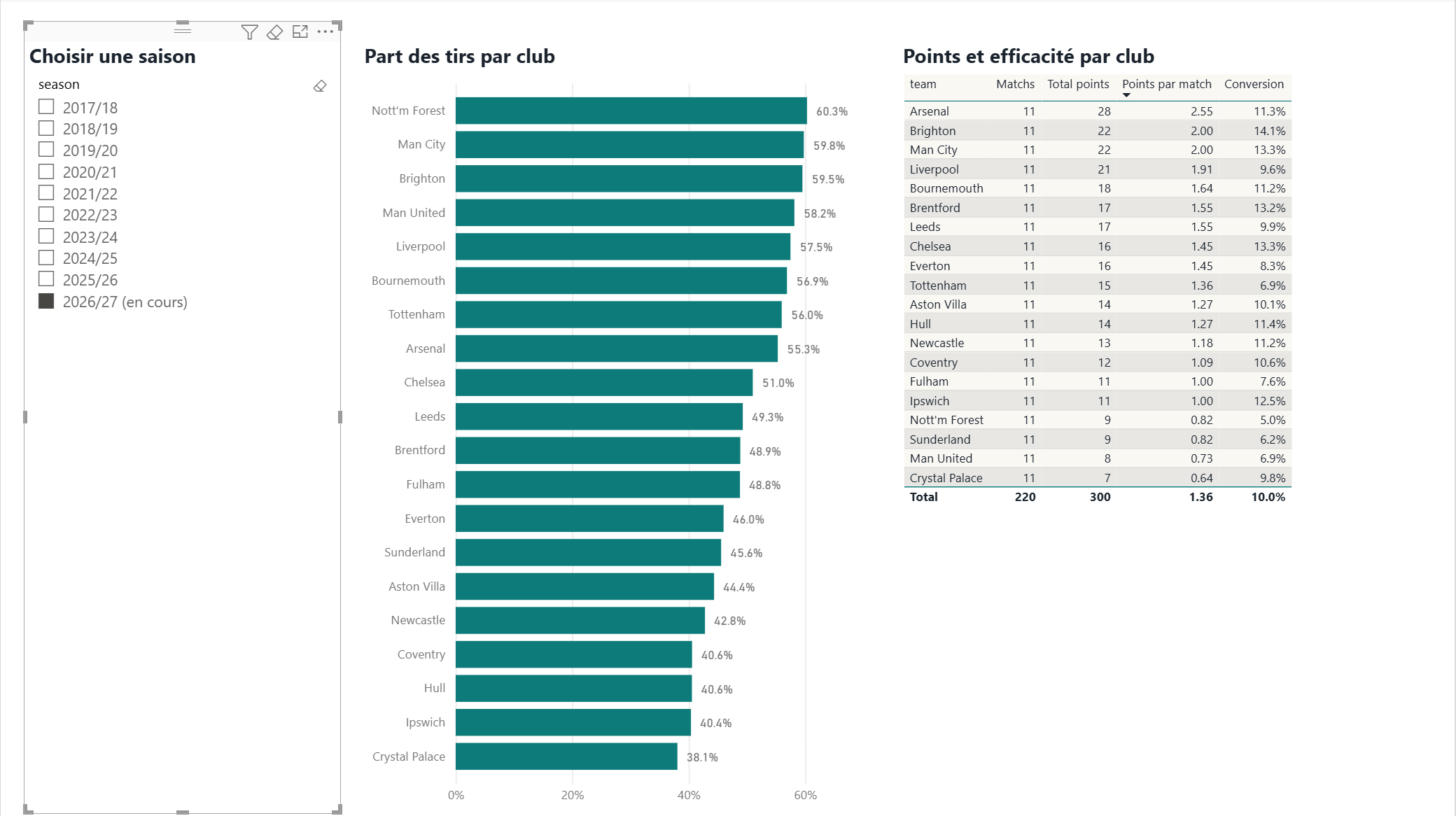
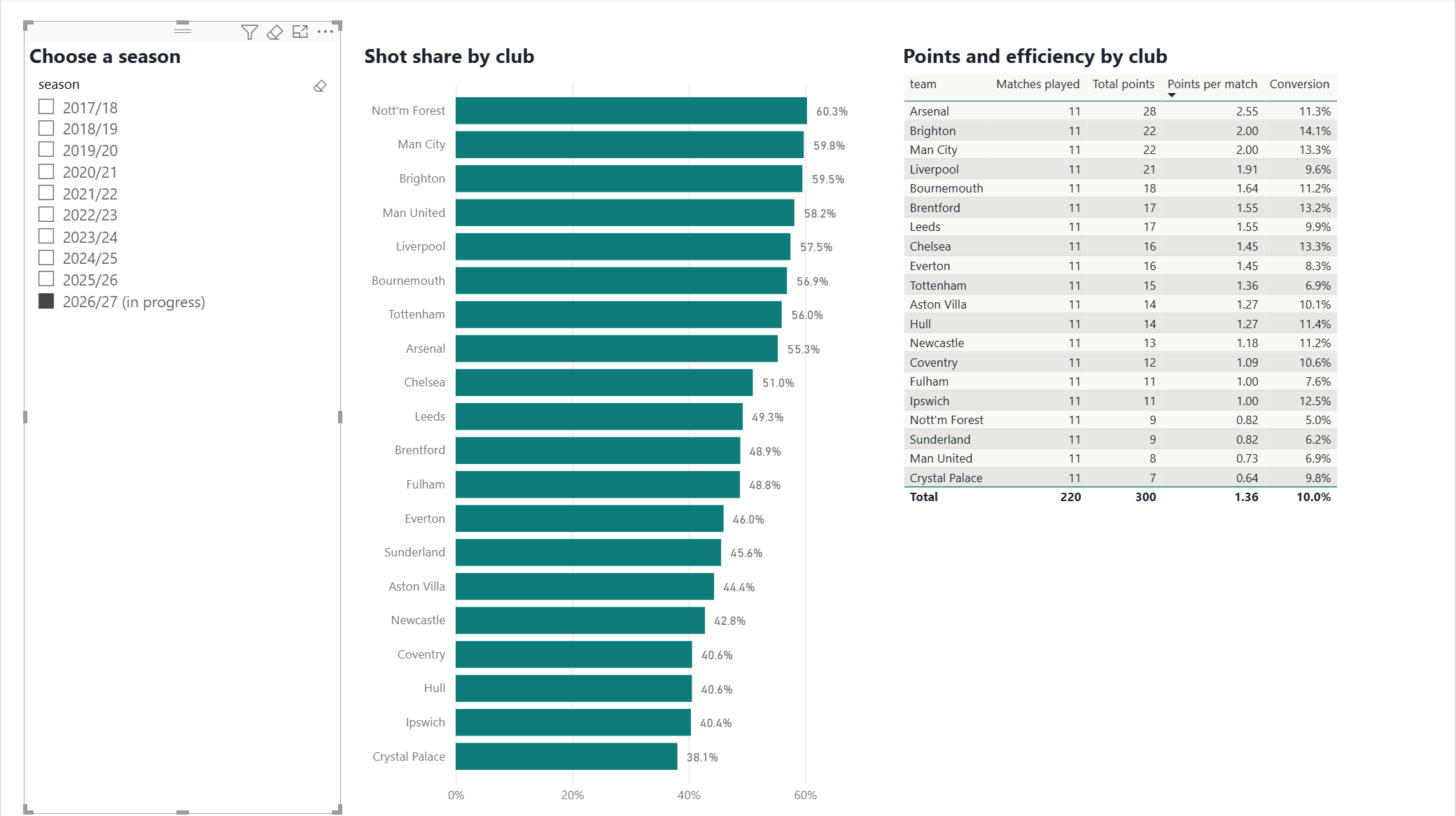
English report, labels and README

diff --git a/powerbi/build_pbip.py b/powerbi/build_pbip.py
@@ -42,39 +42,39 @@ def millions(table: str, column: str) -> str:
 
 MEASURES = {
     "matches": [
-        ("Matchs", "COUNTROWS(matches)", "#,0"),
+        ("Matches played", "COUNTROWS(matches)", "#,0"),
         ("Total points", "SUM(matches[points])", "#,0"),
-        ("Points par match", "DIVIDE([Total points], [Matchs])", "0.00"),
-        ("Part des tirs",
+        ("Points per match", "DIVIDE([Total points], [Matches played])", "0.00"),
+        ("Shot share",
          "DIVIDE(SUM(matches[shots_for]), SUM(matches[shots_for]) + SUM(matches[shots_against]))", "0.0%"),
         ("Conversion",
          "DIVIDE(CALCULATE(SUM(matches[goals_for]), NOT ISBLANK(matches[shots_for])), SUM(matches[shots_for]))",
          "0.0%"),
-        ("Tirs par match", "AVERAGE(matches[shots_for])", "0.0"),
-        ("Tirs concédés par match", "AVERAGE(matches[shots_against])", "0.0"),
-        ("Brighton points par match", brighton("Points par match"), "0.00"),
-        ("Championnat points par match", league("Points par match"), "0.00"),
-        ("Brighton part des tirs", brighton("Part des tirs"), "0.0%"),
-        ("Équilibre", "0.5", "0%"),
+        ("Shots per match", "AVERAGE(matches[shots_for])", "0.0"),
+        ("Shots conceded per match", "AVERAGE(matches[shots_against])", "0.0"),
+        ("Brighton points per match", brighton("Points per match"), "0.00"),
+        ("League points per match", league("Points per match"), "0.00"),
+        ("Brighton shot share", brighton("Shot share"), "0.0%"),
+        ("Even share", "0.5", "0%"),
         ("Brighton conversion", brighton("Conversion"), "0.0%"),
-        ("Championnat conversion", league("Conversion"), "0.0%"),
-        ("Brighton tirs", brighton("Tirs par match"), "0.0"),
-        ("Brighton tirs concédés", brighton("Tirs concédés par match"), "0.0"),
-        ("Dernière saison points par match", latest("Brighton points par match"), "0.00"),
-        ("Dernière saison part des tirs", latest("Brighton part des tirs"), "0.0%"),
-        ("Dernière saison conversion", latest("Brighton conversion"), "0.0%"),
-        ("Dernière saison matchs", latest("Matchs", ', matches[team] = "Brighton"'), "#,0"),
+        ("League conversion", league("Conversion"), "0.0%"),
+        ("Brighton shots", brighton("Shots per match"), "0.0"),
+        ("Brighton shots conceded", brighton("Shots conceded per match"), "0.0"),
+        ("Latest season points per match", latest("Brighton points per match"), "0.00"),
+        ("Latest season shot share", latest("Brighton shot share"), "0.0%"),
+        ("Latest season conversion", latest("Brighton conversion"), "0.0%"),
+        ("Latest season matches", latest("Matches played", ', matches[team] = "Brighton"'), "#,0"),
     ],
     "transfers": [
-        ("Achats (M€)", millions("transfers", "spent_eur"), "#,0.0"),
-        ("Ventes (M€)", millions("transfers", "received_eur"), "#,0.0"),
-        ("Solde (M€)", "[Ventes (M€)] - [Achats (M€)]", "#,0.0"),
+        ("Spent (€M)", millions("transfers", "spent_eur"), "#,0.0"),
+        ("Received (€M)", millions("transfers", "received_eur"), "#,0.0"),
+        ("Balance (€M)", "[Received (€M)] - [Spent (€M)]", "#,0.0"),
     ],
     "trades": [
-        ("Achat (M€)", millions("trades", "buy_fee_eur"), "#,0.0"),
-        ("Vente (M€)", millions("trades", "sell_fee_eur"), "#,0.0"),
-        ("Plus-value (M€)", millions("trades", "gain_eur"), "#,0.0"),
-        ("Opérations", "COUNTROWS(trades)", "#,0"),
+        ("Bought for (€M)", millions("trades", "buy_fee_eur"), "#,0.0"),
+        ("Sold for (€M)", millions("trades", "sell_fee_eur"), "#,0.0"),
+        ("Gain (€M)", millions("trades", "gain_eur"), "#,0.0"),
+        ("Number of trades", "COUNTROWS(trades)", "#,0"),
     ],
 }
 
@@ -204,9 +204,9 @@ def card(name: str, position: tuple, measure: str, title: str, table: str = "mat
 def trend(name: str, kind: str, position: tuple, measures: list, title: str) -> dict:
     """Axes start at zero so differences are not exaggerated; the 50 % reference line has no data labels."""
     labels = [{"properties": {"show": literal("true"), "labelDisplayUnits": literal("1D")}}]
-    if "Équilibre" in measures:
+    if "Even share" in measures:
         labels.append({"properties": {"showSeries": literal("false")},
-                       "selector": {"metadata": "matches.Équilibre"}})
+                       "selector": {"metadata": "matches.Even share"}})
     return visual(name, kind, position, {"Category": [col("season")], "Y": [mea(m) for m in measures]}, title,
                   order=col("season"), ascending=True,
                   objects={"valueAxis": [{"properties": {"start": literal("0D")}}], "labels": labels})
@@ -218,44 +218,44 @@ def page(name: str, display: str, ordinal: int, visuals: list) -> dict:
 
 
 def pages() -> list:
-    progression = page("progression", "La progression", 0, [
-        card("c_ppm", (20, 20, 300, 120), "Dernière saison points par match", "Points par match, 2026/27"),
-        card("c_share", (335, 20, 300, 120), "Dernière saison part des tirs", "Part des tirs, 2026/27"),
-        card("c_conv", (650, 20, 300, 120), "Dernière saison conversion", "Tirs convertis en buts, 2026/27"),
-        card("c_n", (965, 20, 295, 120), "Dernière saison matchs", "Matchs joués, saison en cours"),
+    progression = page("progression", "Progress", 0, [
+        card("c_ppm", (20, 20, 300, 120), "Latest season points per match", "Points per match, 2026/27"),
+        card("c_share", (335, 20, 300, 120), "Latest season shot share", "Shot share, 2026/27"),
+        card("c_conv", (650, 20, 300, 120), "Latest season conversion", "Shot conversion, 2026/27"),
+        card("c_n", (965, 20, 295, 120), "Latest season matches", "Matches played, current season"),
         trend("l_ppm", "lineChart", (20, 155, 620, 545),
-              ["Brighton points par match", "Championnat points par match"], "Points par match : Brighton et la moyenne"),
+              ["Brighton points per match", "League points per match"], "Points per match: Brighton and the average"),
         trend("l_share", "lineChart", (655, 155, 605, 545),
-              ["Brighton part des tirs", "Équilibre"], "Part des tirs de Brighton dans ses matchs"),
+              ["Brighton shot share", "Even share"], "Brighton's share of shots in its matches"),
     ])
-    shots = page("tirs", "Créer et concéder", 1, [
+    shots = page("tirs", "Shots", 1, [
         trend("b_shots", "clusteredColumnChart", (20, 20, 1240, 345),
-              ["Brighton tirs", "Brighton tirs concédés"], "Brighton : tirs par match, créés et concédés"),
+              ["Brighton shots", "Brighton shots conceded"], "Brighton: shots per match, taken and conceded"),
         trend("l_conv", "lineChart", (20, 380, 1240, 320),
-              ["Brighton conversion", "Championnat conversion"], "Part des tirs convertis en buts"),
+              ["Brighton conversion", "League conversion"], "Share of shots converted into goals"),
     ])
-    clubs = page("clubs", "Comparer les clubs", 2, [
-        visual("s_season", "slicer", (20, 20, 280, 680), {"Values": [col("season")]}, "Choisir une saison"),
+    clubs = page("clubs", "Club comparison", 2, [
+        visual("s_season", "slicer", (20, 20, 280, 680), {"Values": [col("season")]}, "Choose a season"),
         visual("b_clubs", "clusteredBarChart", (315, 20, 460, 680),
-               {"Category": [col("team")], "Y": [mea("Part des tirs")]}, "Part des tirs par club",
-               order=mea("Part des tirs"), labels=True),
+               {"Category": [col("team")], "Y": [mea("Shot share")]}, "Shot share by club",
+               order=mea("Shot share"), labels=True),
         visual("t_clubs", "tableEx", (790, 20, 470, 680),
-               {"Values": [col("team"), mea("Matchs"), mea("Total points"), mea("Points par match"), mea("Conversion")]},
-               "Points et efficacité par club", order=mea("Points par match")),
+               {"Values": [col("team"), mea("Matches played"), mea("Total points"), mea("Points per match"), mea("Conversion")]},
+               "Points and efficiency by club", order=mea("Points per match")),
     ])
     t, d = "transfers", "trades"
-    transfers = page("transferts", "Transferts", 3, [
-        card("c_in", (20, 20, 300, 120), "Achats (M€)", "Achats 2017/18 à 2025/26 (M€)", t),
-        card("c_out", (335, 20, 300, 120), "Ventes (M€)", "Ventes sur la période (M€)", t),
-        card("c_bal", (650, 20, 300, 120), "Solde (M€)", "Solde : ventes moins achats (M€)", t),
-        card("c_gain", (965, 20, 295, 120), "Plus-value (M€)", "Achetés puis revendus : gain (M€)", d),
+    transfers = page("transferts", "Transfers", 3, [
+        card("c_in", (20, 20, 300, 120), "Spent (€M)", "Spent 2017/18 to 2025/26 (€M)", t),
+        card("c_out", (335, 20, 300, 120), "Received (€M)", "Received over the period (€M)", t),
+        card("c_bal", (650, 20, 300, 120), "Balance (€M)", "Balance: received minus spent (€M)", t),
+        card("c_gain", (965, 20, 295, 120), "Gain (€M)", "Bought then sold: gain (€M)", d),
         visual("b_season", "clusteredColumnChart", (20, 155, 620, 545),
-               {"Category": [col("season", t)], "Y": [mea("Achats (M€)", t), mea("Ventes (M€)", t)]},
-               "Achats et ventes par saison (M€)", order=col("season", t), ascending=True, labels=True),
+               {"Category": [col("season", t)], "Y": [mea("Spent (€M)", t), mea("Received (€M)", t)]},
+               "Spent and received by season (€M)", order=col("season", t), ascending=True, labels=True),
         visual("t_trades", "tableEx", (655, 155, 605, 545),
-               {"Values": [col("player", d), col("sold_season", d), mea("Achat (M€)", d), mea("Vente (M€)", d),
-                           mea("Plus-value (M€)", d)]},
-               "Joueurs achetés puis revendus (M€)", order=mea("Plus-value (M€)", d)),
+               {"Values": [col("player", d), col("sold_season", d), mea("Bought for (€M)", d), mea("Sold for (€M)", d),
+                           mea("Gain (€M)", d)]},
+               "Players bought then sold (€M)", order=mea("Gain (€M)", d)),
     ])
     return [progression, shots, clubs, transfers]
 

diff --git a/src/transfers.py b/src/transfers.py
@@ -59,7 +59,7 @@ def to_row(record: dict) -> dict:
     return {
         "season": f"20{record['transfer_season']}", "transfer_date": record["transfer_date"],
         "player_id": record["player_id"], "player": record["player_name"],
-        "direction": "Arrivée" if arrival else "Départ",
+        "direction": "In" if arrival else "Out",
         "other_club": record["from_club_name"] if arrival else record["to_club_name"],
         "fee_eur": fee,
         "spent_eur": fee if arrival and fee != "" else 0,
@@ -71,9 +71,9 @@ def match_trades(rows: list[dict]) -> list[dict]:
     """A trade = a paid departure matched with the latest earlier paid arrival of the same player."""
     trades = []
     for sale in rows:
-        if sale["direction"] != "Départ" or not sale["received_eur"]:
+        if sale["direction"] != "Out" or not sale["received_eur"]:
             continue
-        buys = [b for b in rows if b["player_id"] == sale["player_id"] and b["direction"] == "Arrivée"
+        buys = [b for b in rows if b["player_id"] == sale["player_id"] and b["direction"] == "In"
                 and b["spent_eur"] and b["transfer_date"] < sale["transfer_date"]]
         if buys:
             buy = buys[-1]

diff --git a/src/pipeline.py b/src/pipeline.py
@@ -19,7 +19,7 @@ STATS = ["FTHG", "FTAG", "HS", "AS", "HST", "AST"]
 
 
 def label(season: str) -> str:
-    return f"20{season[:2]}/{season[2:]}" + (" (en cours)" if season == CURRENT else "")
+    return f"20{season[:2]}/{season[2:]}" + (" (in progress)" if season == CURRENT else "")
 
 
 def read(season: str) -> list[dict]:
@@ -76,7 +76,7 @@ def team_row(season: str, match: dict, home: bool) -> dict:
     return {
         "season": label(season), "match_date": f"{year}-{month}-{day}",
         "team": pick("HomeTeam", "AwayTeam"), "opponent": pick("AwayTeam", "HomeTeam"),
-        "venue": "Domicile" if home else "Extérieur",
+        "venue": "Home" if home else "Away",
         "goals_for": goals_for, "goals_against": goals_against,
         "points": 3 if goals_for > goals_against else 1 if goals_for == goals_against else 0,
         "shots_for": shot("HS", "AS"), "shots_against": shot("AS", "HS"),

diff --git a/README.md b/README.md
@@ -1,50 +1,57 @@
-# Brighton : ce que disent les données
+# Brighton: what the data says
 
-Un pipeline en Python (bibliothèque standard uniquement) avec contrôles qualité, et un rapport Power BI généré par script.
+A Python pipeline (standard library only) with data quality checks, and a Power BI report generated by script.
 
-- **Matchs :** Premier League, 2017/18 à 2026/27 (en cours, jusqu'au 23/11/2026), 3 530 matchs, une ligne par équipe et par match.
-  Source : [football-data.co.uk](https://www.football-data.co.uk).
-- **Transferts de Brighton :** saisons complètes 2017/18 à 2025/26.
-  Source : [transfermarkt-datasets](https://github.com/dcaribou/transfermarkt-datasets) (dépôt CC0, données Transfermarkt, jusqu'au 06/07/2026).
+- **Matches:** Premier League, 2017/18 to 2026/27 (in progress, up to 23 November 2026), 3,530 matches, one row per team and per match.
+  Source: [football-data.co.uk](https://www.football-data.co.uk).
+- **Brighton transfers:** complete seasons 2017/18 to 2025/26.
+  Source: [transfermarkt-datasets](https://github.com/dcaribou/transfermarkt-datasets) (CC0 repository, Transfermarkt data, up to 6 July 2026).
 
-Les fichiers de données ne sont pas redistribués ici. Vérifier les conditions des sources avant tout autre usage.
+Data files are not redistributed here. Check the sources' terms before any other use.
 
-## Lancer le projet
+## Run it
 
-Python 3.10 ou plus, aucune dépendance à installer.
+Python 3.10 or later, nothing to install.
 
 ```bash
-python src/download.py          # data/raw et data/raw_transfers
-python src/pipeline.py          # matchs : contrôles qualité, puis data/out
-python src/transfers.py         # transferts : contrôles qualité, puis data/out
-python powerbi/build_pbip.py    # modèle et rapport Power BI
+python src/download.py          # data/raw and data/raw_transfers
+python src/pipeline.py          # matches: quality checks, then data/out
+python src/transfers.py         # transfers: quality checks, then data/out
+python powerbi/build_pbip.py    # Power BI model and report
 ```
 
-Ouvrir `powerbi/Brighton.pbip` dans Power BI Desktop puis **Actualiser**.
-Après un clonage ou un déplacement du dossier, relancer `build_pbip.py` : le chemin des données est le paramètre `DataFolder`.
+Open `powerbi/Brighton.pbip` in Power BI Desktop and click **Refresh**.
+After cloning or moving the folder, run `build_pbip.py` again: the data path is the `DataFolder` parameter.
 
-## Contrôles qualité
+## Quality checks
 
-Matchs :
-- **Bloquants :** statistique manquante, date invalide, affiche en double, résultat contraire au score, saison terminée incomplète.
-- **Quarantaine :** tirs cadrés supérieurs aux tirs (West Ham, 15/08/2021 : 9 cadrés pour 8 tirs). Le score est gardé, les tirs de ce match sont vidés.
-- **Information :** buts supérieurs aux tirs cadrés (possible avec un but contre son camp).
+Matches:
+- **Blocking:** missing statistic, invalid date, duplicate fixture, result contradicting the score, incomplete finished season.
+- **Quarantine:** more shots on target than shots (West Ham, 15 August 2021: 9 on target out of 8). The score is kept, the shot statistics of that match are blanked.
+- **Info:** more goals than shots on target (possible with an own goal).
 
-Transferts :
-- **Bloquants :** date invalide, montant négatif ou non numérique, transfert en double.
-- **Exclus :** transferts datés après la date de l'extraction.
-- **Information :** montant inconnu (non compté), montant nul (transfert libre ou prêt).
+Transfers:
+- **Blocking:** invalid date, negative or non-numeric fee, duplicate transfer.
+- **Excluded:** transfers dated after the snapshot.
+- **Info:** unknown fee (not counted), zero fee (free transfer or loan).
 
-## Limites
+## When sources disagree
 
-- Matchs : résultats et tirs. Les xG ne sont renseignés que pour 2026/27 et ne sont pas utilisés. La saison en cours ne compte que 11 matchs.
-- Transferts : montants en euros. Un gain associe une vente payante au dernier achat payant antérieur du même joueur.
-- **Écart entre sources, non corrigé :** achat de Caicedo à 28,2 M€ dans la base, environ 4,5 M£ dans la presse.
-- Ces données décrivent des résultats et des transferts, pas les méthodes de recrutement du club.
+No source wins by default. The one closest to the original data is preferred, the other stays visible, with the currency,
+add-ons and calculation method stated. Sources that measure different things are shown separately.
 
-## Le rapport
+Open gap: Caicedo's purchase fee is €28.2M in the database and about £4.5M in the press. Neither is an official figure.
+The calculations keep the database value; nothing was edited by hand. The database has no field for add-ons.
 
-![Progression](images/progression.jpg)
-![Tirs](images/tirs.jpg)
+## Limits
+
+- Matches: results and shots. xG is only filled for 2026/27 and is not used. The current season has only 11 matches.
+- Transfers: fees in euros. A gain pairs a paid sale with the latest earlier paid purchase of the same player.
+- These data describe results and transfers, not the club's recruitment methods.
+
+## The report
+
+![Progress](images/progress.jpg)
+![Shots](images/shots.jpg)
 ![Clubs](images/clubs.jpg)
-![Transferts](images/transferts.jpg)
+![Transfers](images/transfers.jpg)
